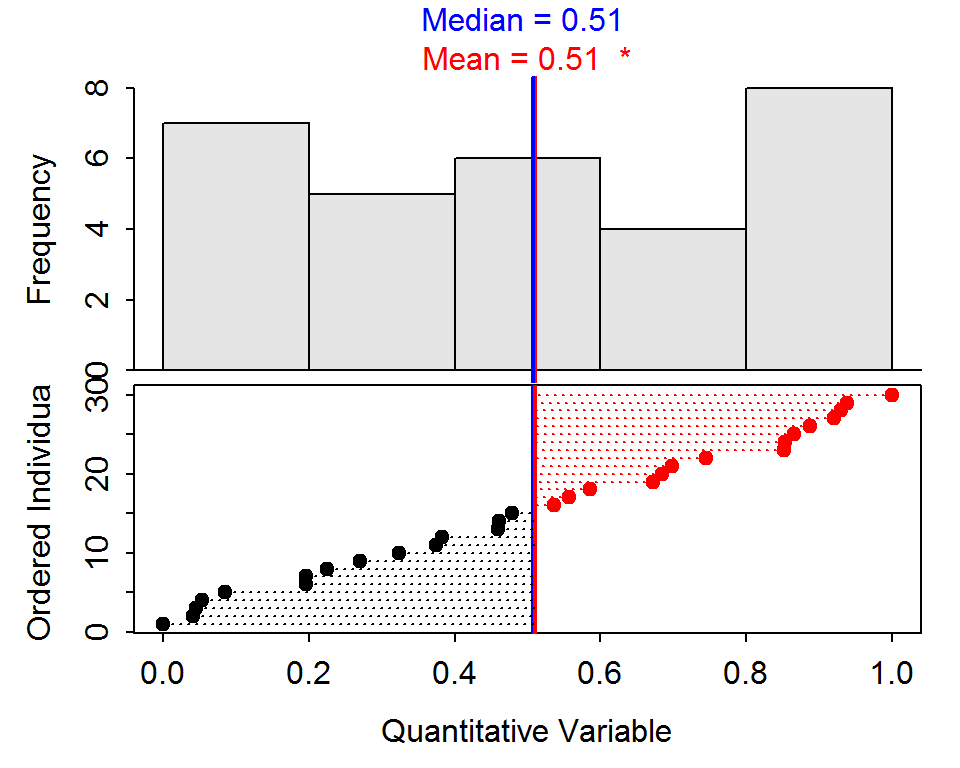
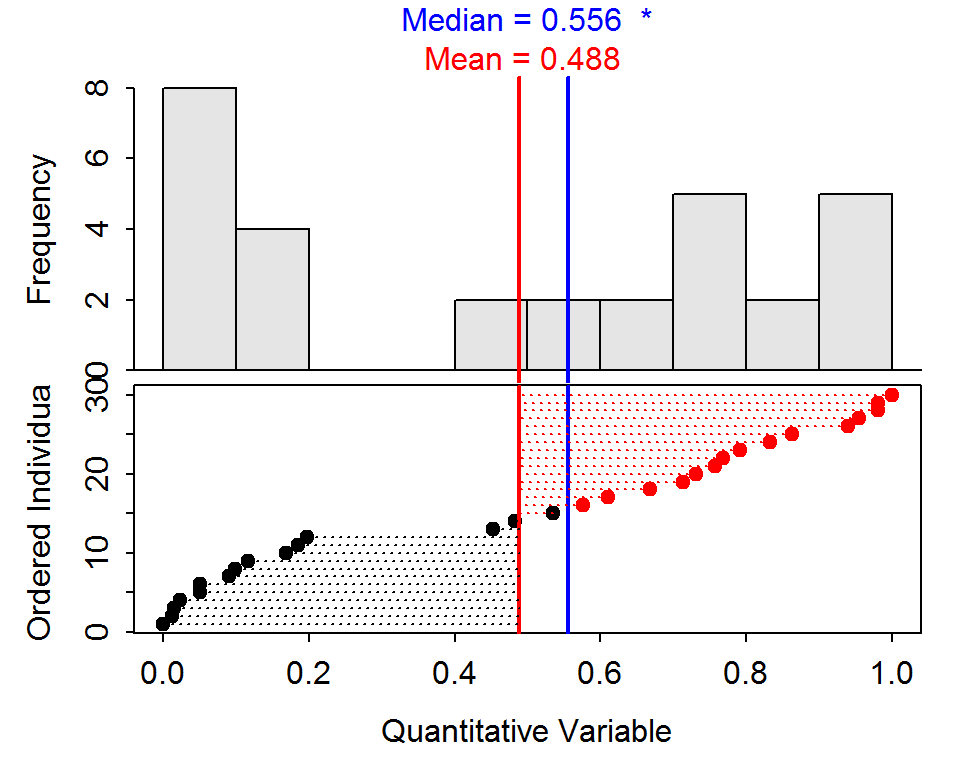
Updated UEDA Quant CE3

Changed region(s): [[0.1562, 0.0, 0.9375, 0.8438]]

diff --git a/modules/UEDAQuant2_CE3.html b/modules/UEDAQuant2_CE3.html
@@ -13,20 +13,16 @@ css: "/css/modules.css"
 <p>Using the <code>meanMedian()</code> function with no arguments will open a plot constructed from random data that looks like that below.</p>
 <p><img src="UEDAQuant2_CE3_files/figure-html/unnamed-chunk-3-1.png" width="480" /></p>
 <p>The top plot is a histogram. The lower plot shows individuals above the median (blue vertical line) with red dots and individuals below the median with black dots. In addition, the dashed horizontal lines represent the differences of each individual from the mean (red vertical line) with negative values in black and positive values in red.</p>
-<p>In RStudio, this plot will also have a small “gear” icon in the upper-left corner. Clicking the gear opens a dialog box where you can control the sample size, two shape parameters, and whether an outlier is modeled or not. In the questions below, leave the sample size at 30 and press the “reradnomize” button several (~10) times for each question to make sure that your conclusions are not based on a single random sample.</p>
+<p>In RStudio, this plot will also have a small “gear” icon in the upper-left corner. Clicking the gear opens a dialog box where you can control the sample size, two shape parameters, and whether an outlier is modeled or not. In the questions below, leave the sample size at 30 and press the “rerandomize” button several times.</p>
 <ol>
-<li>For each scenario below identify (i) the shape of the distribution, (ii) whether a substantive outlier is present, and (iii) whether the value of the mean is more or less than the value of the median.
-<ol>
-<li><code>shape1=1</code>, <code>shape2=1</code>, and no outliers.</li>
-<li><code>shape1=8</code>, <code>shape2=1</code>, and no outliers.</li>
-<li><code>shape1=1</code>, <code>shape2=8</code>, and no outliers.</li>
-<li><code>shape1=3</code>, <code>shape2=3</code>, and no outliers.</li>
-<li><code>shape1=3</code>, <code>shape2=3</code>, and an outlier at the <code>min</code>.</li>
-<li><code>shape1=3</code>, <code>shape2=3</code>, and an outlier at the <code>max</code>.</li>
-</ol></li>
-<li>Can you make a conclusion about the effect of the shape of the distribution on the relative values of the mean and median? [<em>Compare your observations from scenarios a-d.</em>]</li>
-<li>Can you make a conclusion about the effect of outliers on the relative values of the mean and median? [<em>Compare your observations from scenarios d-f.</em>]</li>
-<li>Return to the <a href="UEDAQuant_CE1.html#histograms-ii">Histograms II</a> question and, for each histogram, identify whether the mean would be less than, greater than, or approximately equal to the median.</li>
+<li>Identify (i) the shape of the distribution, (ii) whether a substantive outlier is present, and (iii) whether the value of the mean is more or less than the value of the median when <code>shape1=5</code>, <code>shape2=1</code>, and there are no outliers.</li>
+<li>Identify (i) the shape of the distribution, (ii) whether a substantive outlier is present, and (iii) whether the value of the mean is more or less than the value of the median when <code>shape1=1</code>, <code>shape2=5</code>, and there are no outliers.</li>
+<li>What conclusion can you make about the effect of the shape of the distribution on the relative values of the mean and median?</li>
+<li>What would expect the relative values of the mean and median to be if the distribution was perfectly symmetric?</li>
+<li>Identify (i) the shape of the distribution, (ii) whether a substantive outlier is present, and (iii) whether the value of the mean is more or less than the value of the median when <code>shape1=3</code>, <code>shape2=3</code>, and there is an outlier at the minimum value.</li>
+<li>Identify (i) the shape of the distribution, (ii) whether a substantive outlier is present, and (iii) whether the value of the mean is more or less than the value of the median when <code>shape1=3</code>, <code>shape2=3</code>, and there is an outlier at the maximum value.</li>
+<li>Can you make a conclusion about the effect of outliers on the relative values of the mean and median?</li>
+<li>Return to the <a href="UEDAQuant2_CE1.html#shape-and-outliers-i">Shape and Outliers I</a> class exercse and, for each histogram, identify whether the mean would be less than, greater than, or approximately equal to the median.</li>
 <li>Why do you think the mean and median behave this way?</li>
 </ol>
 <hr />
